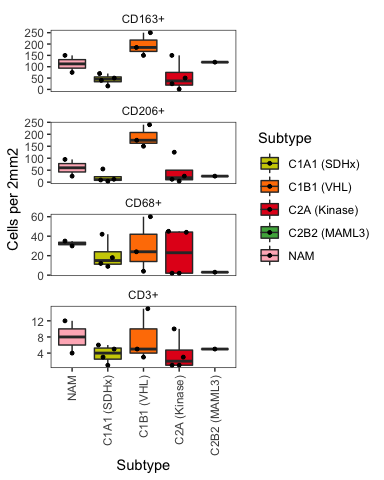
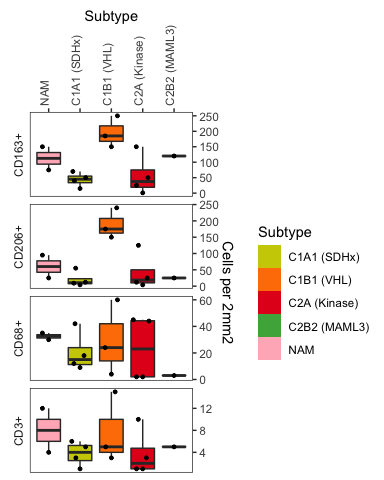
IHC plots updated

Changed region(s): [[0.0, 0.0, 0.625, 1.0], [0.6562, 0.2812, 0.9688, 0.75], [0.0312, 0.875, 0.0625, 0.9375]]

diff --git a/IHC_analysis.md b/IHC_analysis.md
@@ -68,19 +68,30 @@ plotdata <- ihc %>%
   mutate(marker = factor(marker, levels = c("CD163+", "CD206+", "CD68+", "CD3+"))) %>% 
   mutate(Subtype = factor(Subtype, levels = intersect(subtypes_genotypes, unique(Subtype))))
 
-ggplot(plotdata, aes(x = Subtype, y = cells.per.2mm2, fill = Subtype)) +
-  geom_boxplot(outlier.shape=NA)+
-  geom_quasirandom(cex=1)+
-  facet_wrap(~marker,ncol = 1, scales = "free_y") + 
+ihc_box_plot <- ggplot(plotdata, aes(x = Subtype, y = cells.per.2mm2, fill = Subtype)) +
+  geom_boxplot(outlier.shape=NA, key_glyph="rect")+
+  geom_quasirandom(cex=1, show.legend = F)+
+  facet_wrap(~marker,ncol = 1, scales = "free_y", strip.position = "left") + 
   scale_fill_manual(values = subtype_genotype_cols)+
   labs(y = "Cells per 2mm2") +
+  scale_y_continuous(position = "right")+
+    scale_x_discrete(position = "top")+
     theme_bw() + 
   theme(strip.background = element_blank(),
-        axis.text.x = element_text(angle = 90, vjust=0.5, hjust=1),
-        panel.grid = element_blank())
+        axis.text.x = element_text(angle = 90, vjust=0.5, hjust=0, ),
+        panel.grid = element_blank(),
+        legend.key=element_rect(fill=NA))
+ihc_box_plot
 ```
 
 ![](IHC_analysis_files/figure-gfm/boxplots-1.png)<!-- -->
+
+``` r
+ggsave(ihc_box_plot,
+       filename = "ihc_box_plot.pdf",
+       height = 10, width = 11, units = "in" ,
+       scale =0.5)
+```
 
 # ANOVA
 
